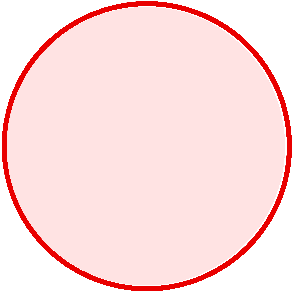
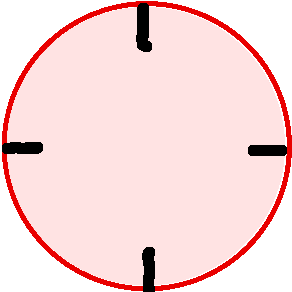
spinning crush/skate rings

diff --git a/Cyclyc/Framework/CycSprite.cs b/Cyclyc/Framework/CycSprite.cs
@@ -215,11 +215,13 @@ namespace Cyclyc.Framework
             set { visualWidth = value*2; visualHeight = value*2; }
         }
         protected virtual bool FlipImage { get; set; }
+        public float Rotation { get; set; }
         #endregion
 
         public CycSprite(Game1 game)
         {
             Game = game;
+            Rotation = 0.0f;
             ScaleFactor = 1.0f;
             assetName = "placeholder";
             collisionStyle = CollisionStyle.Box;
@@ -501,22 +503,23 @@ namespace Cyclyc.Framework
             Rectangle srcRect = new Rectangle(XForSprite(currentAnimation.CurrentFrame), 0, SpriteWidth, spriteSheet.Height);
             //modify srcRect.X for animation frame
             Rectangle dstRect = new Rectangle();
-            //modify dstRect.X, .Y for position, viewport
+            //modify dstRect.X, .Y for position
+            Vector2 rotOrigin;
             if (collisionStyle == CollisionStyle.Box)
             {
                 dstRect.X = (int)(position.X * ScaleFactor);
                 dstRect.Y = (int)(position.Y * ScaleFactor);
-                dstRect.Width = (int)(VisualWidth * ScaleFactor);
-                dstRect.Height = (int)(VisualHeight * ScaleFactor);
+                rotOrigin = new Vector2(0,0);
             }
             else
             {
-                dstRect.X = (int)((position.X * ScaleFactor) - VisualWidth/2);
-                dstRect.Y = (int)((position.Y * ScaleFactor) - VisualHeight/2);
-                dstRect.Width = (int)(VisualWidth * ScaleFactor);
-                dstRect.Height = (int)(VisualHeight * ScaleFactor);
+                dstRect.X = (int)((position.X * ScaleFactor));
+                dstRect.Y = (int)((position.Y * ScaleFactor));
+                rotOrigin = new Vector2(SpriteWidth / 2.0f, srcRect.Height / 2.0f);
             }
-            SpriteBatch.Draw(spriteSheet, dstRect, srcRect, Color.White, 0, Vector2.Zero, FlipImage ? SpriteEffects.FlipHorizontally : SpriteEffects.None, 0);
+            dstRect.Width = (int)(VisualWidth * ScaleFactor);
+            dstRect.Height = (int)(VisualHeight * ScaleFactor);
+            SpriteBatch.Draw(spriteSheet, dstRect, srcRect, Color.White, Rotation, rotOrigin, FlipImage ? SpriteEffects.FlipHorizontally : SpriteEffects.None, 0);
         }
     }
 }

diff --git a/Cyclyc/Framework/CycGame.cs b/Cyclyc/Framework/CycGame.cs
@@ -103,14 +103,12 @@ namespace Cyclyc.Framework
         {
             return null;
         }
-        public void DeliverRandomEnemy(bool leftSide, int difficulty)
+        protected Challenge NextMeasureChallenge()
         {
-            EnemyMaker enemy = MakeRandomEnemy(leftSide, difficulty);
             //is the next beat in a new measure?
-            Challenge c=null;
+            Challenge c = null;
             int nextMeasure = (int)Math.Floor(Game.CurrentMeasure) + 1;
             int nextBeat = nextMeasure * 4;
-            int beatInMeasure = 0;
             if (otherPlayerChallenges.Count == 0 || (otherPlayerChallenges.Last().Measure != nextMeasure))
             {
                 c = new Challenge(this, game, nextMeasure);
@@ -118,14 +116,20 @@ namespace Cyclyc.Framework
                 {
                     //TODO: not sure this is right
                     otherPlayerChallenges.Last().State = ChallengeState.Deployed;
-                } 
+                }
                 otherPlayerChallenges.Add(c);
             }
             else
             {
                 c = otherPlayerChallenges.Last();
             }
-            c.AddBeat(new ChallengeBeat(beatInMeasure, new EnemyMaker[] { enemy }));
+            return c;
+        }
+        public void DeliverRandomEnemy(bool leftSide, int difficulty)
+        {
+            EnemyMaker enemy = MakeRandomEnemy(leftSide, difficulty);
+            Challenge c = NextMeasureChallenge();
+            c.AddBeat(new ChallengeBeat(0, new EnemyMaker[] { enemy }));
         }
 
         public void AddSprite(CycSprite cs)

diff --git a/Cyclyc/ShipGirl/ShipCircle.cs b/Cyclyc/ShipGirl/ShipCircle.cs
@@ -65,26 +65,33 @@ namespace Cyclyc.ShipGirl
             resizeTime = 0;
             resizeDuration = duration;
         }
-
-        /// <summary>
-        /// Allows the game component to update itself.
-        /// </summary>
-        /// <param name="gameTime">Provides a snapshot of timing values.</param>
+        protected double RotScaleFactor
+        {
+            get { return 0.3; }
+        }
         public override void Update(GameTime gameTime)
         {
             if (resizeTime < resizeDuration)
             {
                 resizeTime += gameTime.ElapsedGameTime.TotalSeconds;
-                Radius = MathHelper.Lerp(oldRadius, destRadius, (float)(resizeTime / resizeDuration));
+                float ratio = (float)(resizeTime / resizeDuration);
+                Radius = MathHelper.Lerp(oldRadius, destRadius, ratio);
                 VisualRadius = Radius;
             }
             else
             {
                 Radius = destRadius;
+                oldRadius = Radius;
                 VisualRadius = Radius;
             }
+            //use a function of the visualradius for rot ? what about idle rotations?
+            Rotation = (float)((VisualRadius * RotScaleFactor) % (Math.PI * 2));
             position = ship.Center;
             base.Update(gameTime);
+        }
+        public override void Draw(GameTime gameTime)
+        {
+            base.Draw(gameTime);
         }
     }
 }

diff --git a/Cyclyc/ShipGirl/ShipGame.cs b/Cyclyc/ShipGirl/ShipGame.cs
@@ -172,8 +172,8 @@ namespace Cyclyc.ShipGirl
         }
         public void KillPlayer()
         {
-            skim.ResizeTo(DefaultSkimRadius, CrushCooldown);
-            crush.ResizeTo(DefaultCrushRadius, CrushCooldown);
+            skim.ResizeTo(DefaultSkimRadius, 0.0);
+            crush.ResizeTo(DefaultCrushRadius, 0.0);
             ship.Die();
         }
         public void Skim(int enemyCount)
